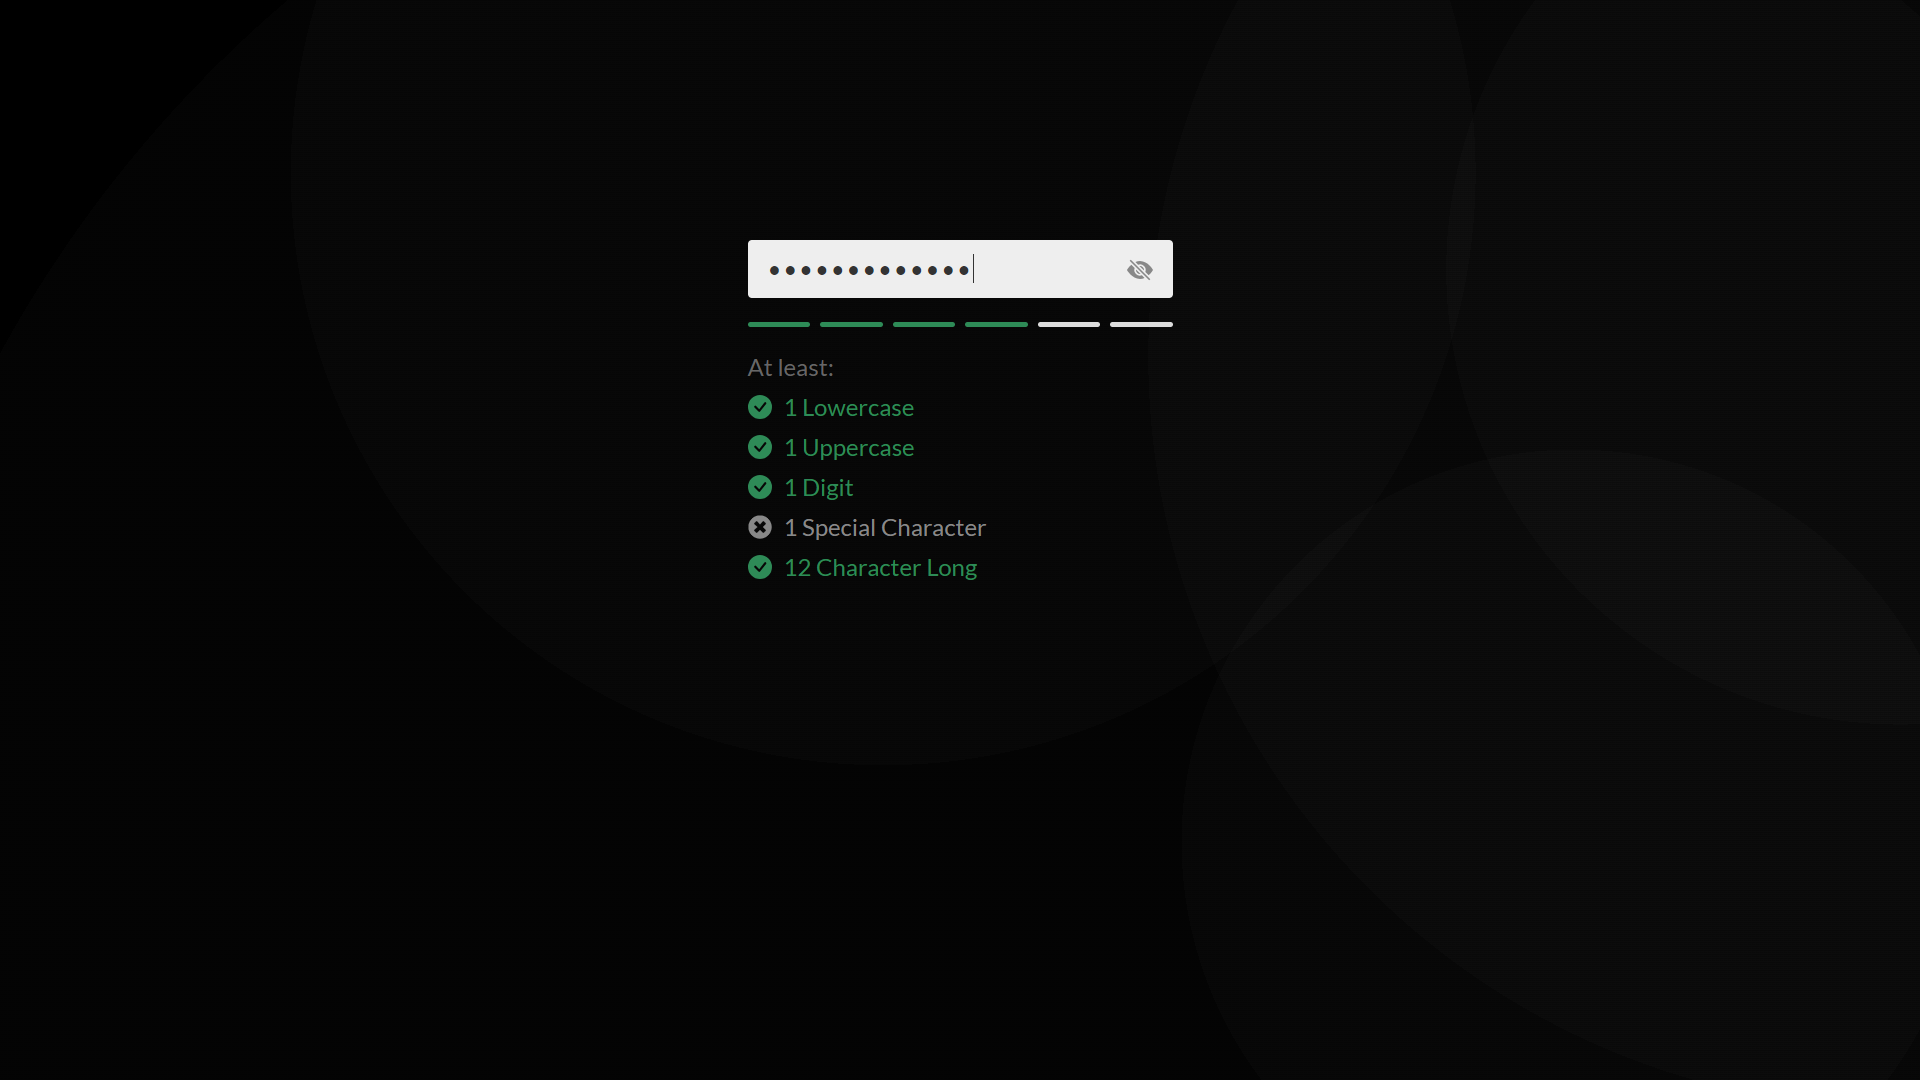
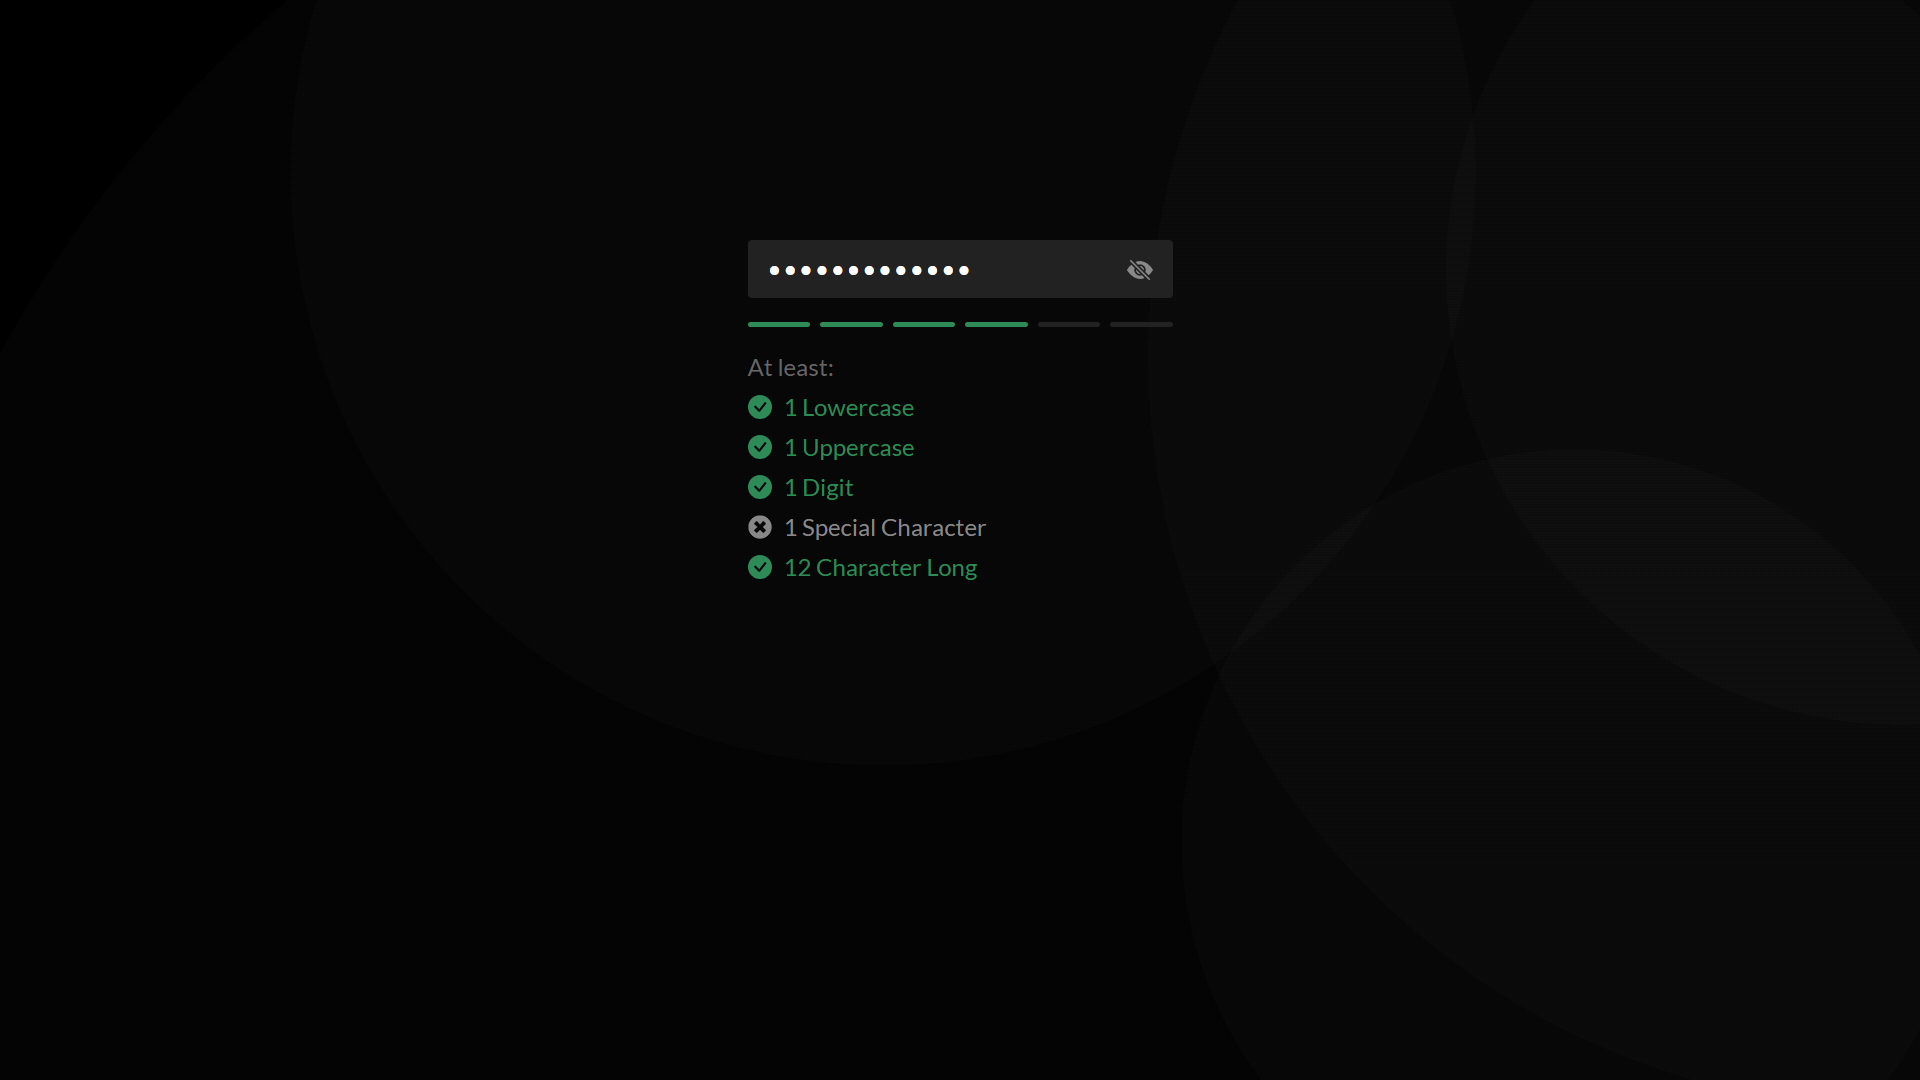
password checker project updated

Changed region(s): [[0.375, 0.2139, 0.625, 0.3056]]

diff --git a/src/pages/password-checker/PasswordChecker.jsx b/src/pages/password-checker/PasswordChecker.jsx
@@ -85,17 +85,17 @@ const PasswordChecker = () => {
             <div className="checkBox">
                 <div className="inputField">
                     <input type={showPassword ? "text" : "password"} value={password} onChange={handleChange} placeholder="Enter your password" />
-                    {showPassword && <BsFillEyeFill className="iconEye" onClick={handleShowPassword} />}
-                    {!showPassword && <BsFillEyeSlashFill className="iconEyeSlash" onClick={handleShowPassword} />}
+                    {showPassword && password && <BsFillEyeFill className="iconEye" onClick={handleShowPassword} />}
+                    {!showPassword && password && <BsFillEyeSlashFill className="iconEyeSlash" onClick={handleShowPassword} />}
                 </div>
 
                 {password && <div className="strenghtBars">
-                    <span className="strenghtBar" style={(passwordStrength >= 1) ? {background: 'seagreen'} : {background: '#ddd'}}></span>
-                    <span className="strenghtBar" style={(passwordStrength >= 2) ? {background: 'seagreen'} : {background: '#ddd'}}></span>
-                    <span className="strenghtBar" style={(passwordStrength >= 3) ? {background: 'seagreen'} : {background: '#ddd'}}></span>
-                    <span className="strenghtBar" style={(passwordStrength >= 4) ? {background: 'seagreen'} : {background: '#ddd'}}></span>
-                    <span className="strenghtBar" style={(passwordStrength >= 5) ? {background: 'seagreen'} : {background: '#ddd'}}></span>
-                    <span className="strenghtBar" style={(passwordStrength >= 6) ? {background: 'seagreen'} : {background: '#ddd'}}></span>
+                    <span className="strenghtBar" style={(passwordStrength >= 1) ? {background: 'seagreen'} : {background: '#222'}}></span>
+                    <span className="strenghtBar" style={(passwordStrength >= 2) ? {background: 'seagreen'} : {background: '#222'}}></span>
+                    <span className="strenghtBar" style={(passwordStrength >= 3) ? {background: 'seagreen'} : {background: '#222'}}></span>
+                    <span className="strenghtBar" style={(passwordStrength >= 4) ? {background: 'seagreen'} : {background: '#222'}}></span>
+                    <span className="strenghtBar" style={(passwordStrength >= 5) ? {background: 'seagreen'} : {background: '#222'}}></span>
+                    <span className="strenghtBar" style={(passwordStrength >= 6) ? {background: 'seagreen'} : {background: '#222'}}></span>
                 </div>}
 
                 <div className="instructions">

diff --git a/src/pages/password-checker/password-checker.css b/src/pages/password-checker/password-checker.css
@@ -25,13 +25,13 @@
     height: 100%;
     width: 100%;
     padding: 0 1rem;
-    color: #333;
+    color: #fff;
     font-size: 1.2rem;
     letter-spacing: 1.5px;
     border: none;
     outline: none;
     border-radius: 0.2rem;
-    background: #eee;
+    background: #222;
     box-sizing: border-box;
     font-family: 'Lato', sans-serif;
 }
